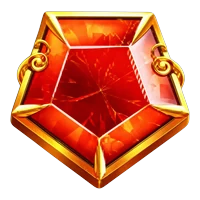
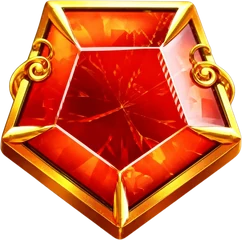
fix(olympus): symbols regenerate at fixed 240px height, board matches red-line
- assets/symbols/*.webp: bbox-cropped then scaled to height 240, width by
  original aspect ratio. No transparent canvas padding, so CSS height:90%
  now maps to actual symbol visual height. Total 312KB.
- olympus.css: board rect locked to the red-line preview (left 3%, right
  2.5%, top 23%, bottom 47%); columns 15.30/17.35/17.86x3/13.77.
- img height 110% -> 90% with no overflow hidden needed.
- cache key olympus.css?v=10

diff --git a/src/css/olympus.css b/src/css/olympus.css
@@ -1,4 +1,4 @@
-/* Apex Olympus - wider board, larger symbols */
+/* Apex Olympus - precise grid, symbols at 90% cell height */
 
 html, body {
   margin: 0; padding: 0; background: #000; color: #fff;
@@ -25,41 +25,38 @@ html, body {
   pointer-events: none; z-index: 2;
 }
 
-/* Board: left 3.5% / right 2.5% (was 4.44/3.33). Column widths
-   recomputed for the 94% board width: col1 12.22/94=13.0%,
-   col2-5 16.67/94=17.73%, col6 13.33/94=14.18%. */
+/* Board rect from red-line preview4: top 23%, bottom 53% (top-down),
+   left 3%, right 2.5%.  CSS bottom is distance from bottom edge so
+   bottom = 100 - 53 = 47. Column widths from the same preview. */
 .ol-grid-inner {
   position: absolute;
-  left: 3.5%;
+  left: 3.0%;
   right: 2.5%;
-  top: 25.2%;
-  bottom: 51.9%;
+  top: 23.0%;
+  bottom: 47.0%;
   display: grid;
   grid-template-columns:
-    13.00%
-    17.73%
-    17.73%
-    17.73%
-    17.73%
-    14.18%;
-  gap: 0;
-  box-sizing: border-box;
+    15.30%
+    17.35%
+    17.86%
+    17.86%
+    17.86%
+    13.77%;
+  gap: 0; box-sizing: border-box;
 }
 .ol-cell {
   display: flex; align-items: center; justify-content: center;
   min-width: 0; min-height: 0;
-  overflow: hidden;
-  box-sizing: border-box;
+  overflow: hidden; box-sizing: border-box;
 }
-/* Symbol canvas at 110% cell height: content inside the 200x200 canvas
-   occupies ~90%, so visible art now covers ~99% of cell height and
-   overflows slightly. The cell clips the transparent overhang,
-   producing a larger look with a clean boundary. */
+/* Symbols are regenerated at a fixed height of 240px, so setting img
+   height to 90% makes every symbol the same visual height regardless
+   of source aspect ratio. Width scales by the original aspect. */
 .ol-cell img {
   display: block;
-  height: 110%;
+  height: 90%;
   width: auto;
-  max-width: 130%;
+  max-width: 100%;
   object-fit: contain;
   object-position: center;
   -webkit-user-drag: none; user-select: none; pointer-events: none;

diff --git a/olympus.html b/olympus.html
@@ -7,7 +7,7 @@
 <meta name="robots" content="noindex">
 <title>奥林匹斯</title>
 <link rel="icon" type="image/svg+xml" href="/favicon.svg">
-<link rel="stylesheet" href="/src/css/olympus.css?v=9">
+<link rel="stylesheet" href="/src/css/olympus.css?v=10">
 </head>
 <body class="ol-body">
 <div class="ol-stage">
